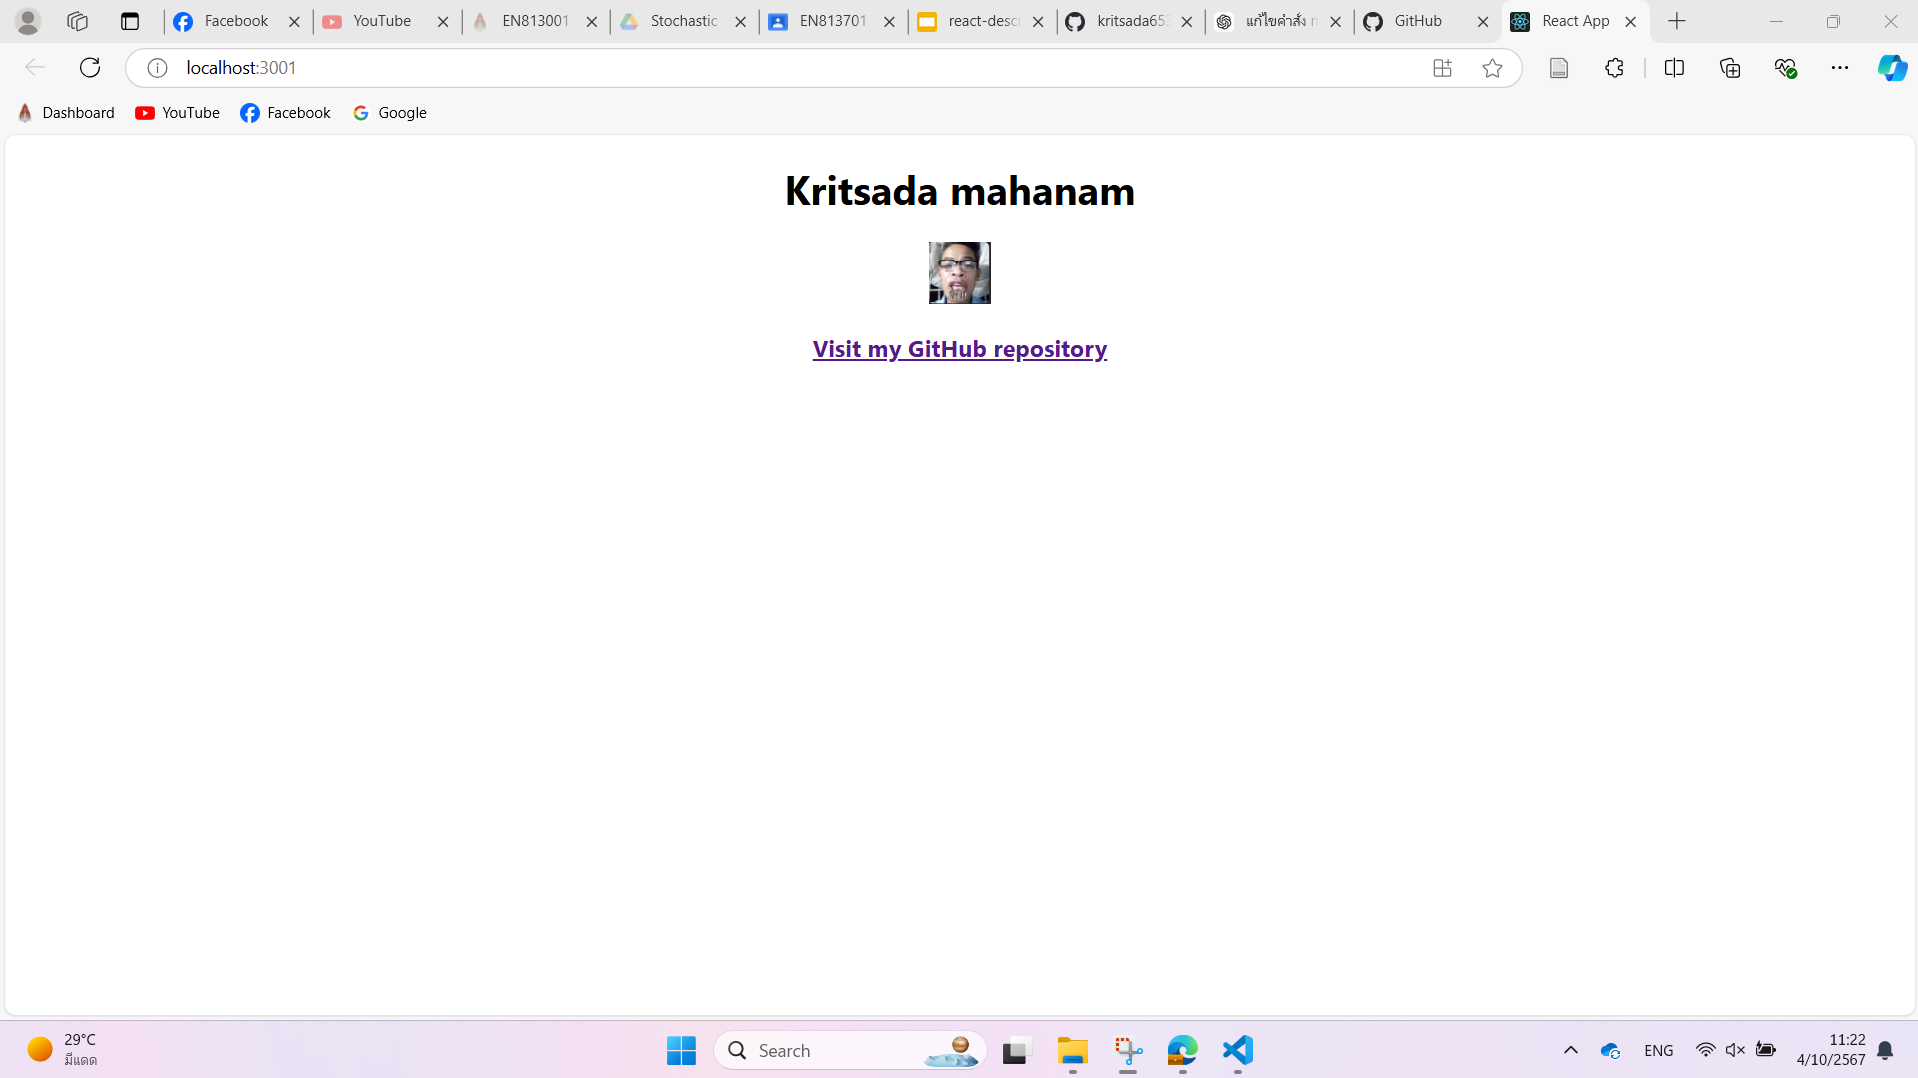
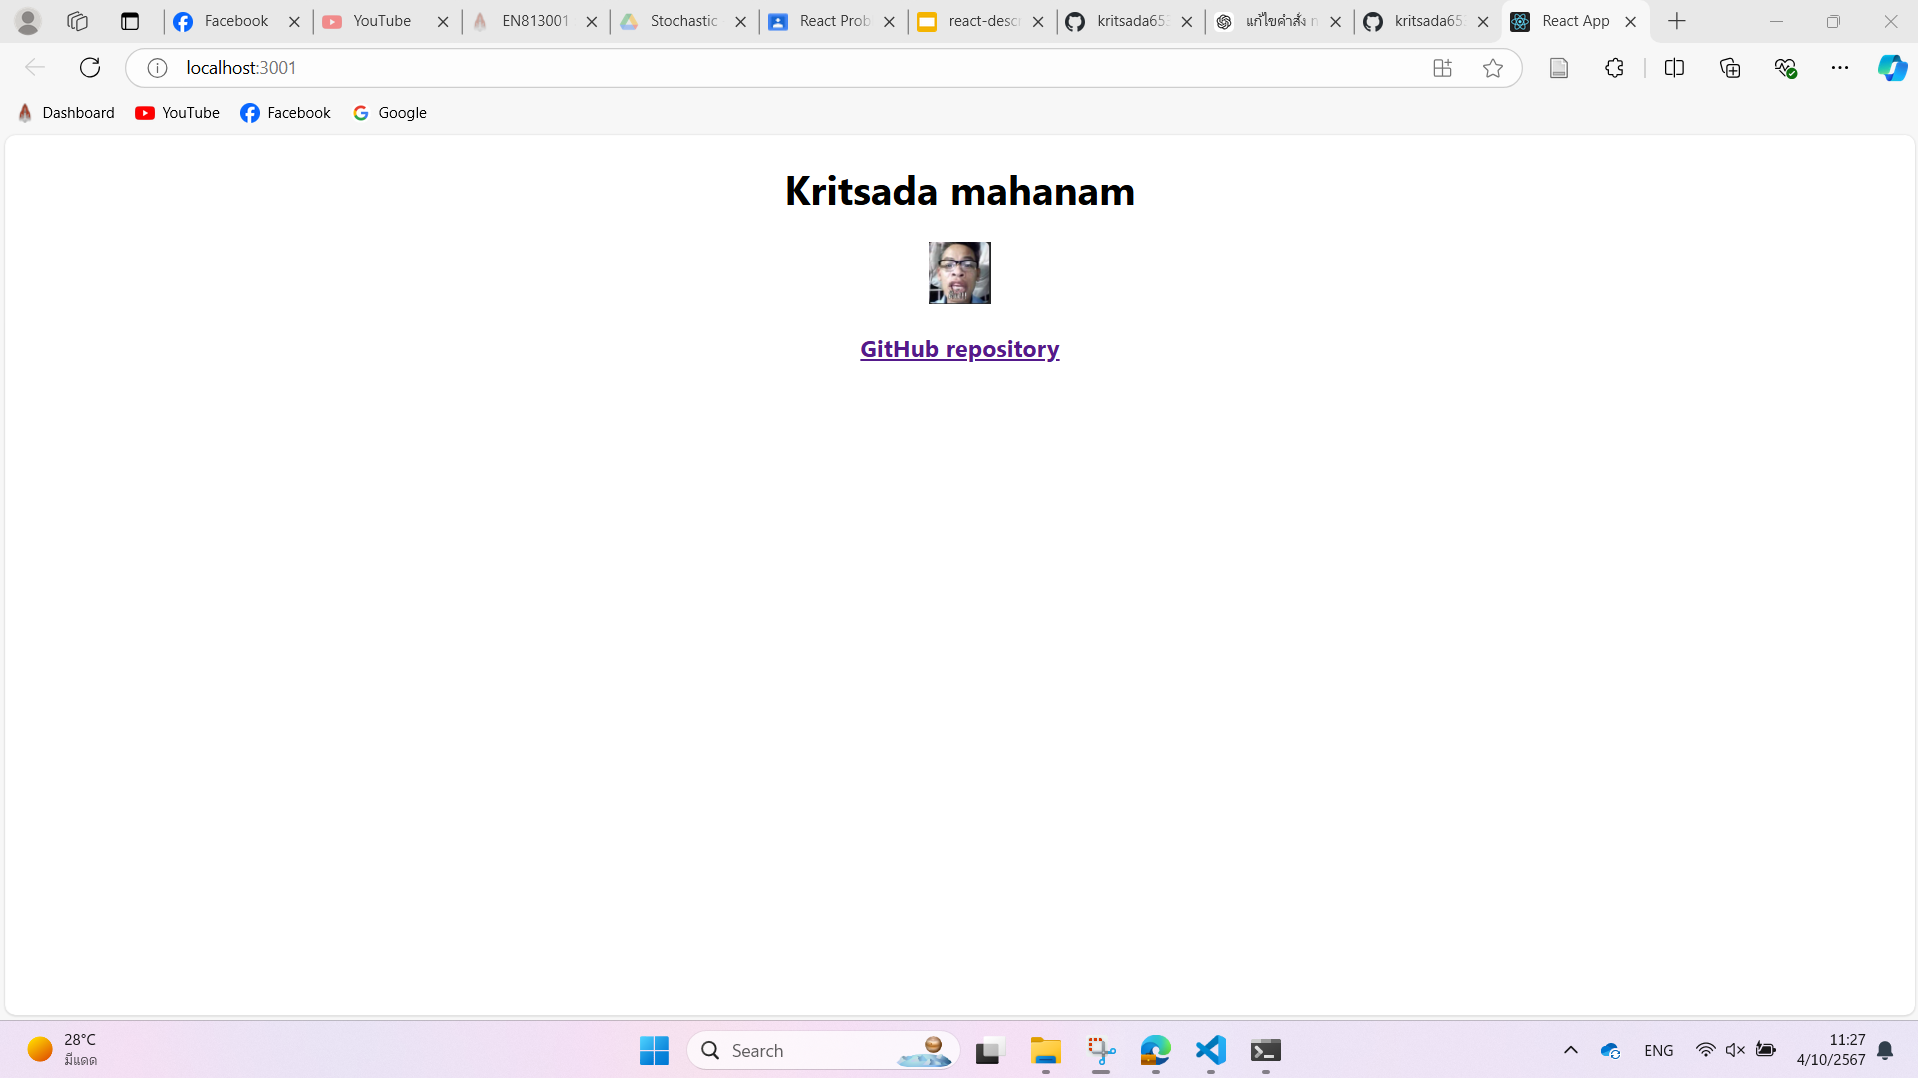
react-prob2

diff --git a/react-prob2/src/github_data.js b/react-prob2/src/github_data.js
@@ -12,7 +12,7 @@ export function GitHubRepoURL({ url }) {
   return (
     <h3>
     <a href={url} target="_blank" rel="noopener noreferrer">
-      Visit my GitHub repository
+      GitHub repository
     </a>
     </h3>
   );
